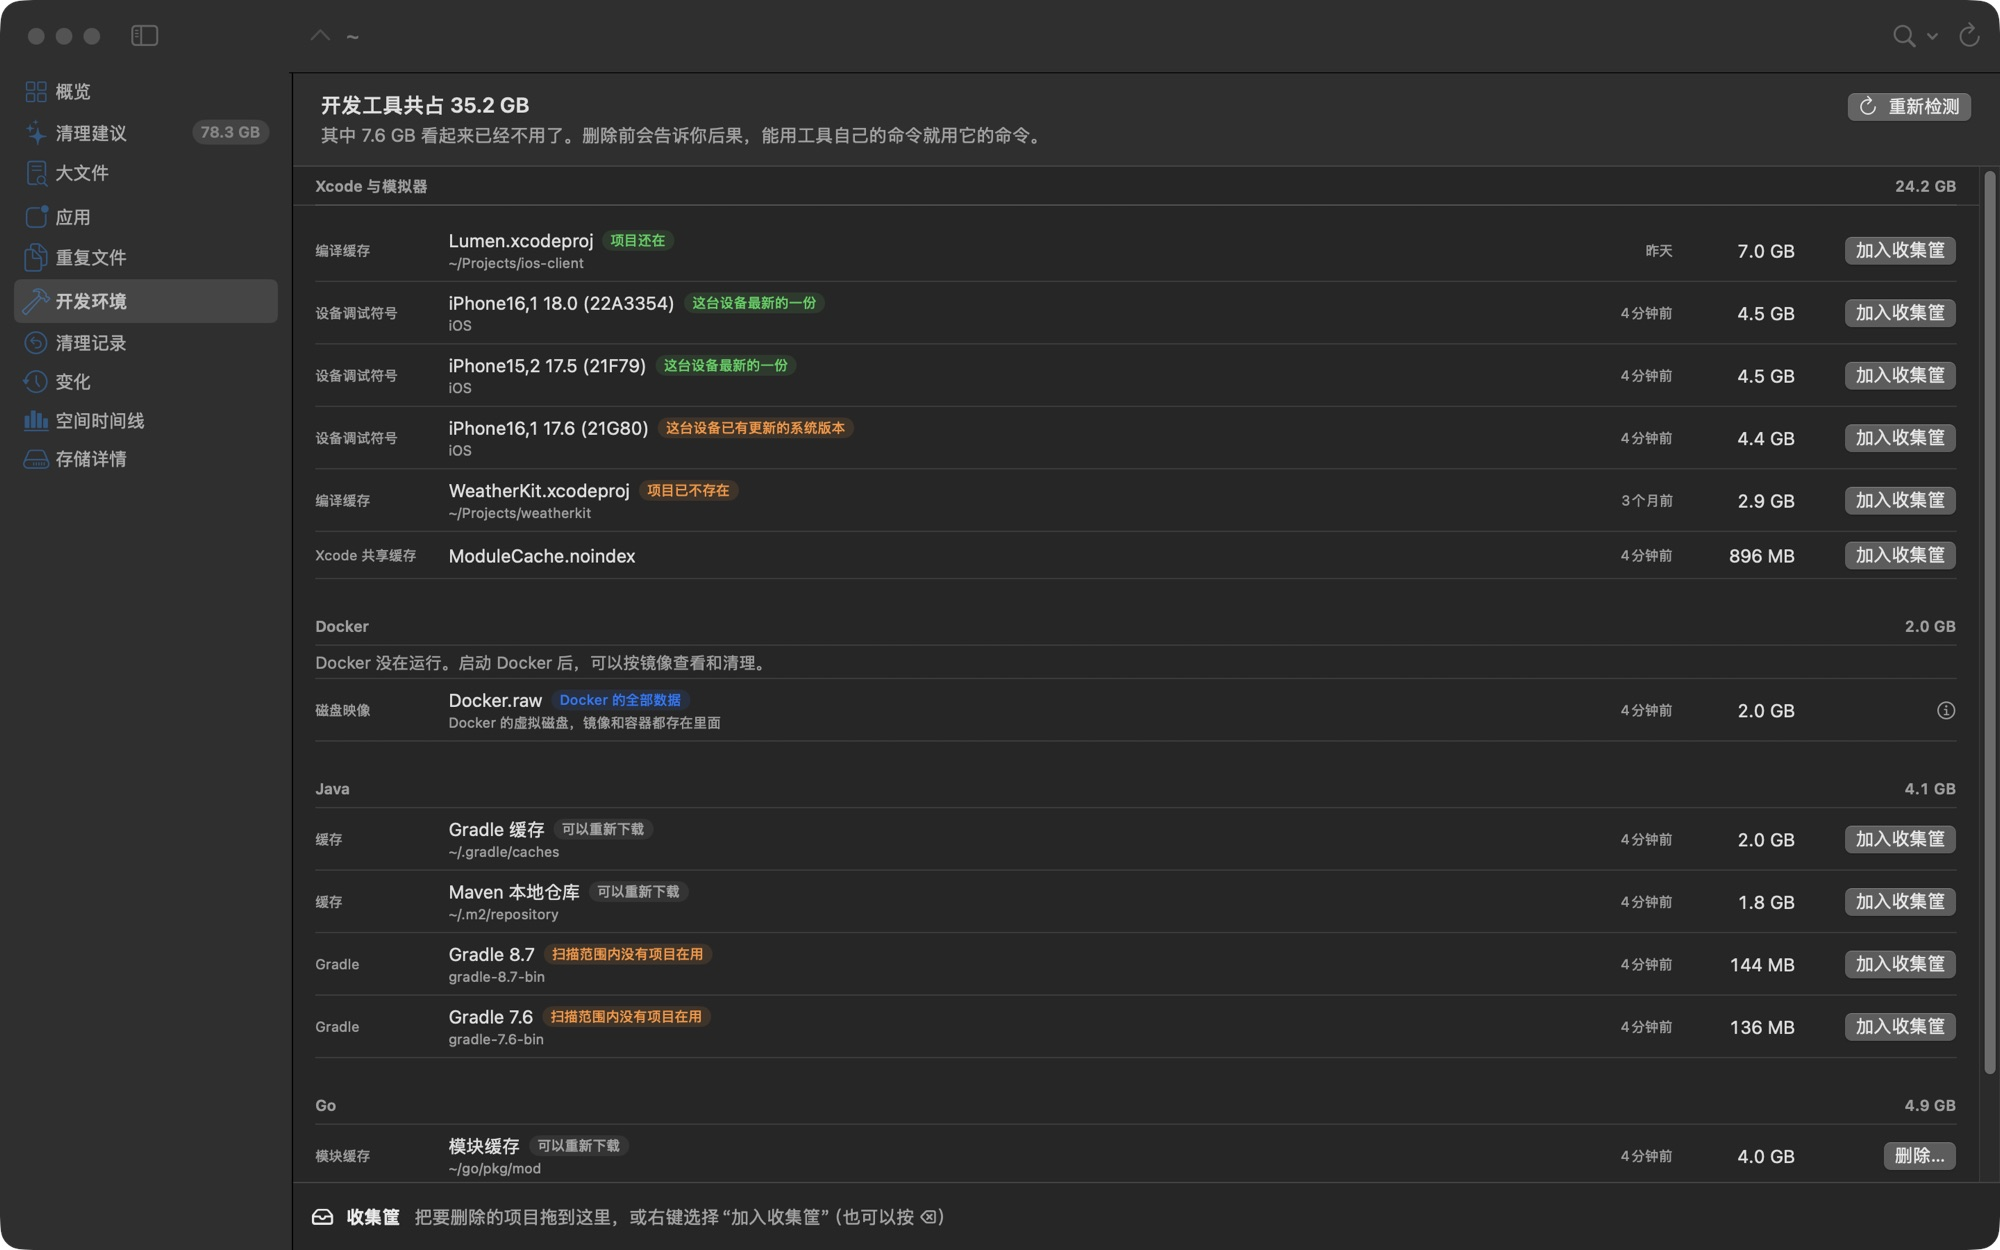
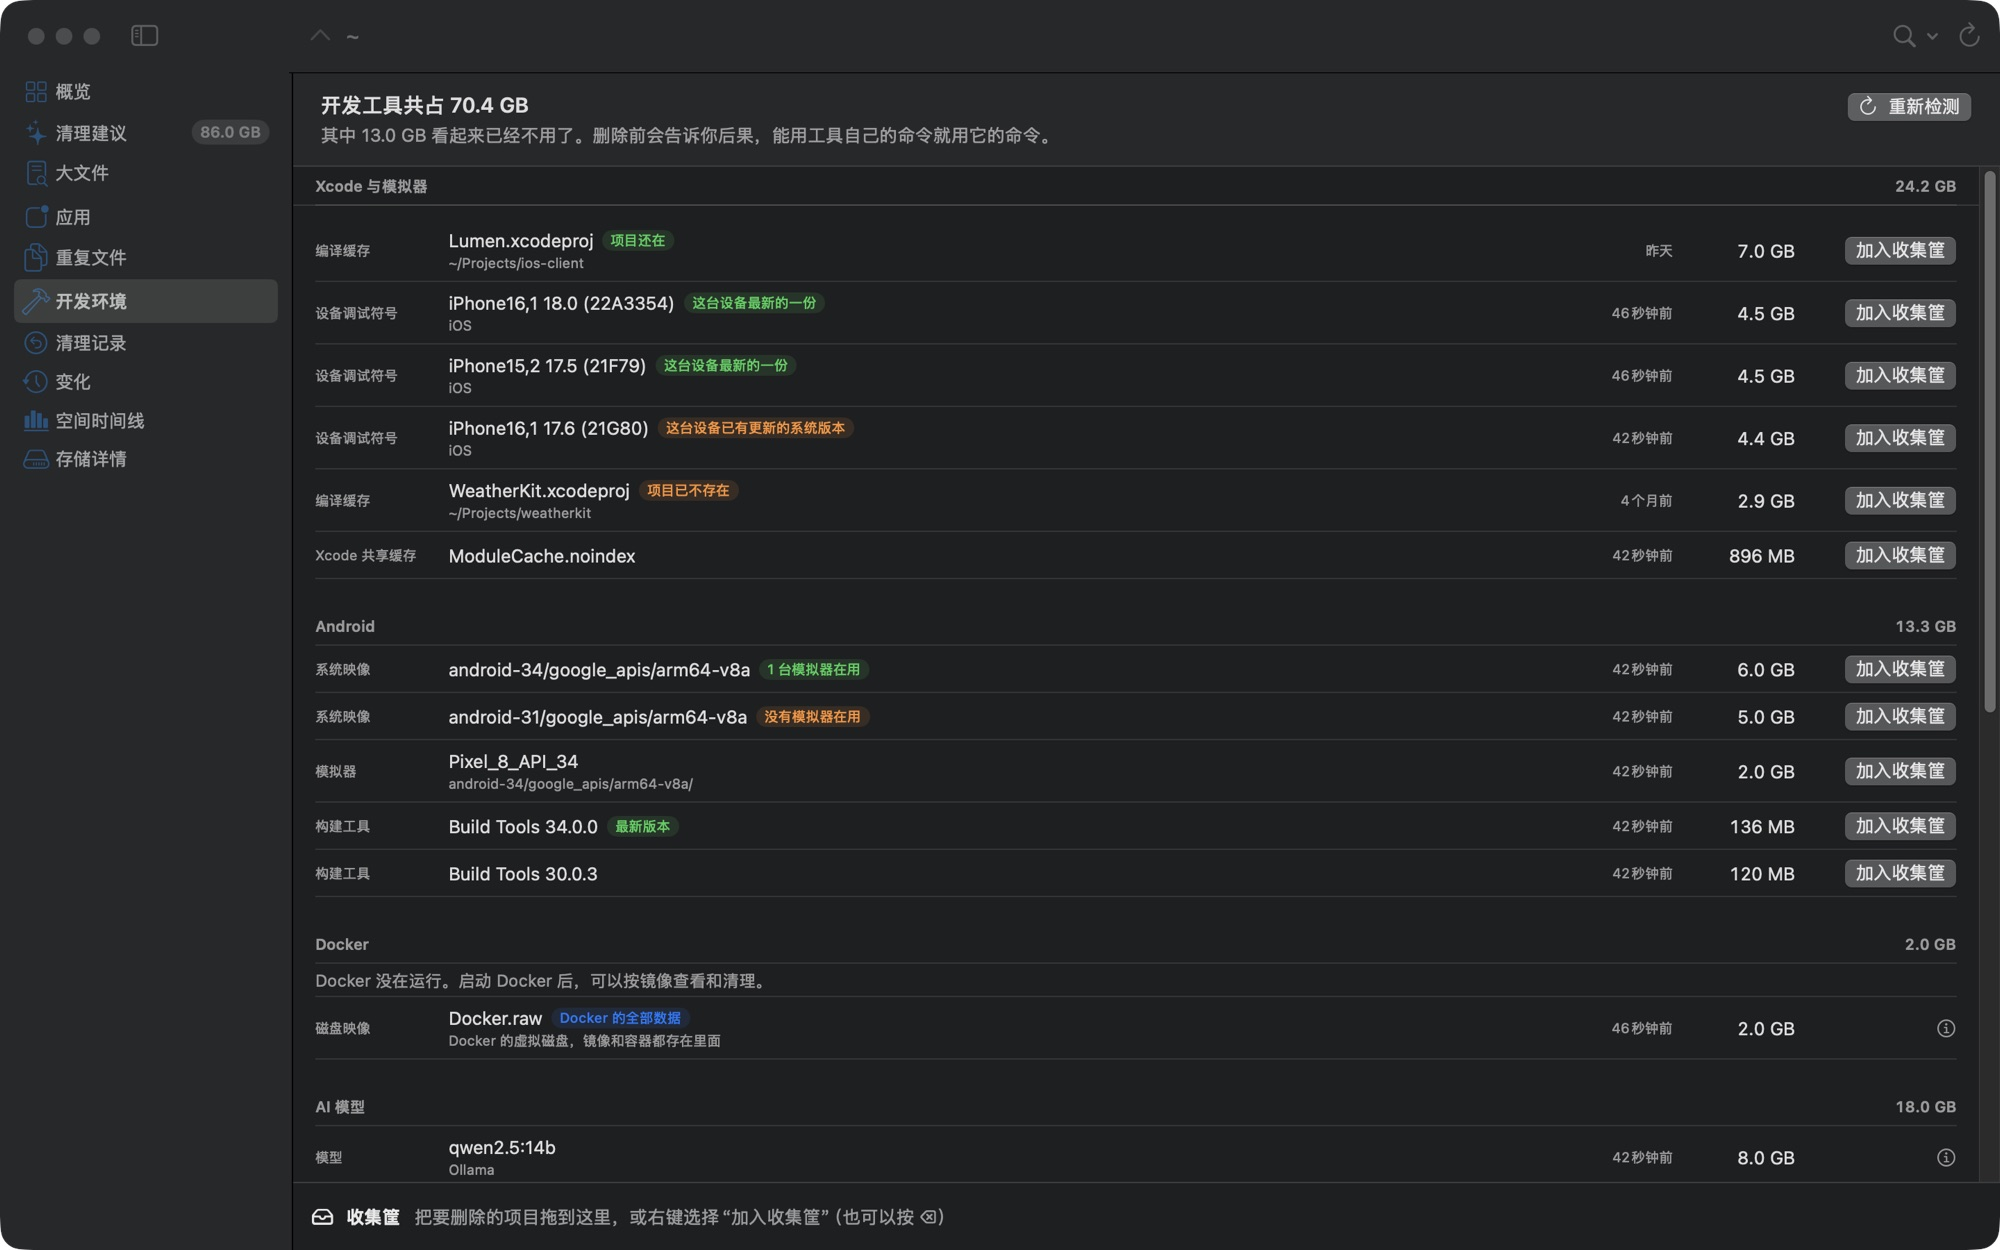
Update the promo page for 0.2.5 and its Dev Environments coverage
Retake the Dev Environments screenshot with Android and AI model demo data,
describe all eleven tool types, and make the download button version-free.

diff --git a/docs/index.html b/docs/index.html
@@ -231,7 +231,7 @@ footer .wrap { display: flex; flex-wrap: wrap; gap: 8px 24px; justify-content: s
       <p class="eyebrow">DiskLens · 磁盘空间分析</p>
       <h1>看清<span class="grad">每一 GB</span><br>的去向。</h1>
       <p class="lede">原生速度扫完整块磁盘，把空间画成一张可以放大的地图，再告诉你哪些能放心删掉、删了会怎样。</p>
-      <div class="hero-meta"><span>预览版 0.2.4 已发布</span><span>原生 macOS 应用</span><span>数据只留在你的 Mac 上</span><span>macOS 14 及以上</span></div>
+      <div class="hero-meta"><span>预览版 0.2.5 已发布</span><span>原生 macOS 应用</span><span>数据只留在你的 Mac 上</span><span>macOS 14 及以上</span></div>
 
       <div class="window" role="group" aria-label="DiskLens 演示窗口">
         <div class="titlebar">
@@ -343,15 +343,15 @@ footer .wrap { display: flex; flex-wrap: wrap; gap: 8px 24px; justify-content: s
     <div class="wrap">
       <div class="head lift">
         <p class="eyebrow">开发环境</p>
-        <h2 class="h2">Xcode、Docker、Gradle，<br>哪些还在用，一目了然。</h2>
-        <p class="lede">开发工具往往是 Mac 上最大的隐形占用。DiskLens 找出装了哪些版本、模拟器、镜像和缓存，标出哪些正在用、哪些已经没人用，再用工具自己的命令把它们删掉。</p>
+        <h2 class="h2">Xcode、Docker、Node、AI 模型，<br>哪些还在用，一目了然。</h2>
+        <p class="lede">开发工具往往是 Mac 上最大的隐形占用。DiskLens 检查 11 类工具：Xcode 与模拟器、Android、Docker、AI 模型、Homebrew、Node.js、Python、Java、Go、Rust、Ruby。找出装了哪些版本、模拟器、镜像、模型和缓存，标出哪些正在用、哪些已经没人用，再用工具自己的命令把它们删掉。</p>
       </div>
       <figure class="shot lift">
-        <img src="img/devtools.jpg" width="2000" height="1250" alt="开发环境页面：按 Xcode 与模拟器、Docker、Java、Go 分组，标出哪些还在用、哪些已经不用" decoding="async" loading="lazy">
+        <img src="img/devtools.jpg" width="2000" height="1250" alt="开发环境页面：按 Xcode 与模拟器、Android、Docker、AI 模型等分组，标出哪些还在用、哪些已经不用" decoding="async" loading="lazy">
       </figure>
       <div class="facts lift">
-        <div><b>知道还在不在用</b><span>当前选中的 Xcode、默认的 JDK、每台设备最新的调试符号、项目还在的编译缓存，都会标出来。</span></div>
-        <div><b>用工具自己的命令</b><span>模拟器用 simctl，镜像用 docker，Homebrew 用 brew cleanup；运行前先给你看完整的命令。</span></div>
+        <div><b>知道还在不在用</b><span>默认的 Xcode、JDK、Node、Python；项目里 .nvmrc、.python-version 指定的版本；有模拟器在用的系统映像，都会标出来。</span></div>
+        <div><b>用工具自己的命令</b><span>模拟器用 simctl，镜像用 docker，Python 用 pyenv，模型用 ollama rm；运行前先给你看完整的命令。</span></div>
         <div><b>删了也有记录</b><span>每次清理都记进清理记录，普通文件夹照旧移到废纸篓，可以放回。</span></div>
       </div>
     </div>
@@ -417,7 +417,7 @@ footer .wrap { display: flex; flex-wrap: wrap; gap: 8px 24px; justify-content: s
       <h2 class="h2 lift">DiskLens<br><span class="grad">预览版已发布。</span></h2>
       <p class="lede">支持 macOS 14 Sonoma 及以上，Apple 芯片和 Intel 机型都能用。预览版还没有经过苹果公证，第一次打开时请按住 Control 点按 DiskLens，选「打开」。</p>
       <div class="cta-row">
-        <a class="primary" href="https://github.com/calabli/DiskLens/releases/latest" target="_blank" rel="noopener">下载 0.2.4</a>
+        <a class="primary" href="https://github.com/calabli/DiskLens/releases/latest" target="_blank" rel="noopener">下载最新版</a>
         <a class="secondary" href="https://github.com/calabli/DiskLens" target="_blank" rel="noopener">在 GitHub 上查看</a>
       </div>
     </div>

diff --git a/promo/site/disklens.html b/promo/site/disklens.html
@@ -224,7 +224,7 @@ footer .wrap { display: flex; flex-wrap: wrap; gap: 8px 24px; justify-content: s
       <p class="eyebrow">DiskLens · 磁盘空间分析</p>
       <h1>看清<span class="grad">每一 GB</span><br>的去向。</h1>
       <p class="lede">原生速度扫完整块磁盘，把空间画成一张可以放大的地图，再告诉你哪些能放心删掉、删了会怎样。</p>
-      <div class="hero-meta"><span>预览版 0.2.4 已发布</span><span>原生 macOS 应用</span><span>数据只留在你的 Mac 上</span><span>macOS 14 及以上</span></div>
+      <div class="hero-meta"><span>预览版 0.2.5 已发布</span><span>原生 macOS 应用</span><span>数据只留在你的 Mac 上</span><span>macOS 14 及以上</span></div>
 
       <div class="window" role="group" aria-label="DiskLens 演示窗口">
         <div class="titlebar">
@@ -336,15 +336,15 @@ footer .wrap { display: flex; flex-wrap: wrap; gap: 8px 24px; justify-content: s
     <div class="wrap">
       <div class="head lift">
         <p class="eyebrow">开发环境</p>
-        <h2 class="h2">Xcode、Docker、Gradle，<br>哪些还在用，一目了然。</h2>
-        <p class="lede">开发工具往往是 Mac 上最大的隐形占用。DiskLens 找出装了哪些版本、模拟器、镜像和缓存，标出哪些正在用、哪些已经没人用，再用工具自己的命令把它们删掉。</p>
+        <h2 class="h2">Xcode、Docker、Node、AI 模型，<br>哪些还在用，一目了然。</h2>
+        <p class="lede">开发工具往往是 Mac 上最大的隐形占用。DiskLens 检查 11 类工具：Xcode 与模拟器、Android、Docker、AI 模型、Homebrew、Node.js、Python、Java、Go、Rust、Ruby。找出装了哪些版本、模拟器、镜像、模型和缓存，标出哪些正在用、哪些已经没人用，再用工具自己的命令把它们删掉。</p>
       </div>
       <figure class="shot lift">
-        <img src="img/devtools.jpg" width="2000" height="1250" alt="开发环境页面：按 Xcode 与模拟器、Docker、Java、Go 分组，标出哪些还在用、哪些已经不用" decoding="async" loading="lazy">
+        <img src="img/devtools.jpg" width="2000" height="1250" alt="开发环境页面：按 Xcode 与模拟器、Android、Docker、AI 模型等分组，标出哪些还在用、哪些已经不用" decoding="async" loading="lazy">
       </figure>
       <div class="facts lift">
-        <div><b>知道还在不在用</b><span>当前选中的 Xcode、默认的 JDK、每台设备最新的调试符号、项目还在的编译缓存，都会标出来。</span></div>
-        <div><b>用工具自己的命令</b><span>模拟器用 simctl，镜像用 docker，Homebrew 用 brew cleanup；运行前先给你看完整的命令。</span></div>
+        <div><b>知道还在不在用</b><span>默认的 Xcode、JDK、Node、Python；项目里 .nvmrc、.python-version 指定的版本；有模拟器在用的系统映像，都会标出来。</span></div>
+        <div><b>用工具自己的命令</b><span>模拟器用 simctl，镜像用 docker，Python 用 pyenv，模型用 ollama rm；运行前先给你看完整的命令。</span></div>
         <div><b>删了也有记录</b><span>每次清理都记进清理记录，普通文件夹照旧移到废纸篓，可以放回。</span></div>
       </div>
     </div>
@@ -410,7 +410,7 @@ footer .wrap { display: flex; flex-wrap: wrap; gap: 8px 24px; justify-content: s
       <h2 class="h2 lift">DiskLens<br><span class="grad">预览版已发布。</span></h2>
       <p class="lede">支持 macOS 14 Sonoma 及以上，Apple 芯片和 Intel 机型都能用。预览版还没有经过苹果公证，第一次打开时请按住 Control 点按 DiskLens，选「打开」。</p>
       <div class="cta-row">
-        <a class="primary" href="https://github.com/calabli/DiskLens/releases/latest" target="_blank" rel="noopener">下载 0.2.4</a>
+        <a class="primary" href="https://github.com/calabli/DiskLens/releases/latest" target="_blank" rel="noopener">下载最新版</a>
         <a class="secondary" href="https://github.com/calabli/DiskLens" target="_blank" rel="noopener">在 GitHub 上查看</a>
       </div>
     </div>

diff --git a/scripts/make-demo-home.swift b/scripts/make-demo-home.swift
@@ -143,6 +143,37 @@ fill(".m2/repository/org", 1800 * MB, with: 8 * MB) { "artifact-\($0).jar" }
 fill("go/pkg/mod/github.com", 4 * GB, with: 8 * MB) { "module-\($0).zip" }
 fill("Library/Caches/go-build", 900 * MB, with: MB) { String(format: "%02x/%062x-d", $0 % 256, $0 &* 31) }
 
+// Android, AI models, Node and Python versions, for the second half of Dev Environments.
+let sdk = "Library/Android/sdk"
+fill("\(sdk)/system-images/android-34/google_apis/arm64-v8a", 6 * GB, with: 500 * MB) { "system-\($0).img" }
+fill("\(sdk)/system-images/android-31/google_apis/arm64-v8a", 5 * GB, with: 500 * MB) { "system-\($0).img" }
+fill("\(sdk)/build-tools/34.0.0", 140 * MB, with: 8 * MB) { "lib-\($0)" }
+fill("\(sdk)/build-tools/30.0.3", 120 * MB, with: 8 * MB) { "lib-\($0)" }
+fill(".android/avd/Pixel_8_API_34.avd", 2 * GB, with: 500 * MB) { "userdata-\($0).img" }
+try "image.sysdir.1=system-images/android-34/google_apis/arm64-v8a/\n".write(toFile: home + "/.android/avd/Pixel_8_API_34.avd/config.ini", atomically: true, encoding: .utf8)
+func ollamaModel(_ name: String, _ tag: String, gigabytes: Int64) throws {
+    let blob = "sha256:" + String(repeating: name.first.map(String.init) ?? "a", count: 8) + tag
+    fill(".ollama/models/blobs", gigabytes * GB, with: 2 * GB) { "\(blob)-\($0)" }
+    let manifest = home + "/.ollama/models/manifests/registry.ollama.ai/library/\(name)/\(tag)"
+    try fm.createDirectory(atPath: (manifest as NSString).deletingLastPathComponent, withIntermediateDirectories: true)
+    try JSONSerialization.data(withJSONObject: ["config": ["digest": blob + "c", "size": 485],
+                                               "layers": [["digest": blob, "size": gigabytes * GB]]])
+        .write(to: URL(fileURLWithPath: manifest))
+}
+try ollamaModel("qwen2.5", "14b", gigabytes: 8)
+try ollamaModel("llama3.1", "8b", gigabytes: 4)
+fill(".cache/huggingface/hub/models--Qwen--Qwen2.5-7B-Instruct/blobs", 6 * GB, with: 2 * GB) { "shard-\($0)" }
+for version in ["v18.19.0", "v20.11.1", "v22.3.0"] {
+    fill(".nvm/versions/node/\(version)/lib/node_modules/npm", 120 * MB, with: 8 * MB) { "chunk-\($0).js" }
+}
+try fm.createDirectory(atPath: home + "/.nvm/alias", withIntermediateDirectories: true)
+try "22\n".write(toFile: home + "/.nvm/alias/default", atomically: true, encoding: .utf8)
+try "18\n".write(toFile: home + "/Projects/lumen-web/.nvmrc", atomically: true, encoding: .utf8)
+for version in ["3.10.14", "3.12.4"] {
+    fill(".pyenv/versions/\(version)/lib", 300 * MB, with: 8 * MB) { "python-\($0).so" }
+}
+try "3.12.4\n".write(toFile: home + "/.pyenv/version", atomically: true, encoding: .utf8)
+
 // MARK: Downloads, with a few true duplicates
 
 for (name, size) in [("Xcode_16.1.xip", 2 * GB), ("ubuntu-24.04.1-desktop-arm64.iso", 2 * GB), ("旅行素材.zip", 2 * GB),
